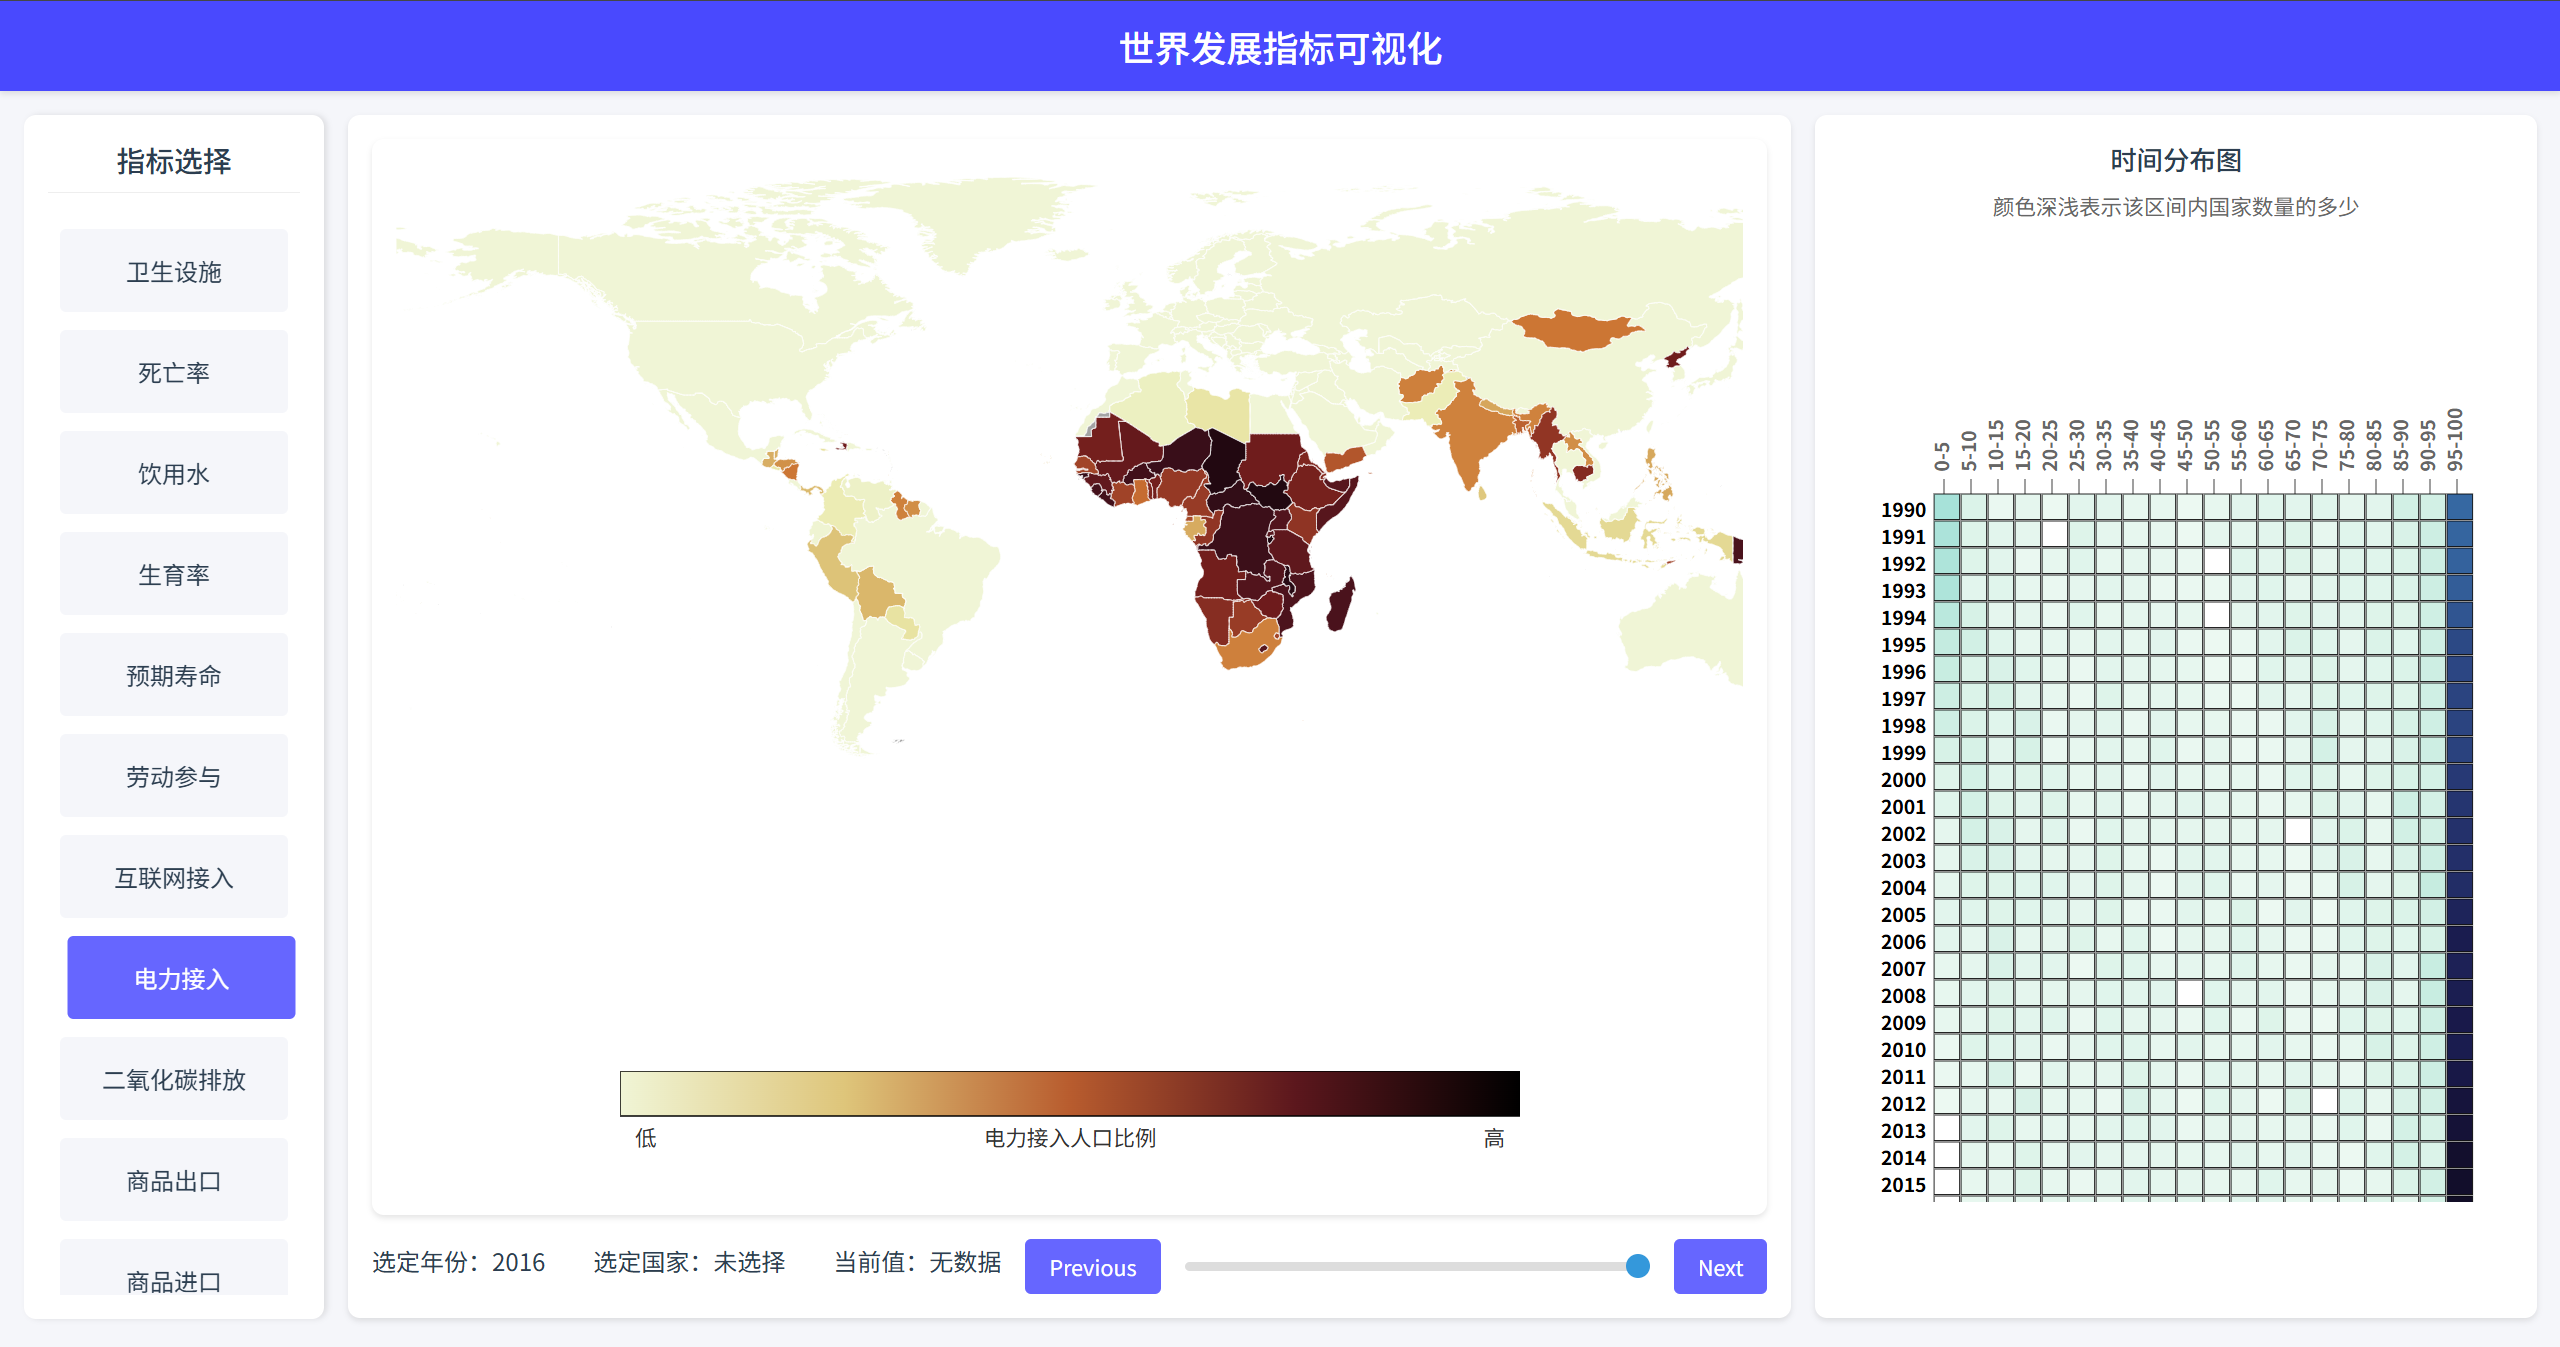
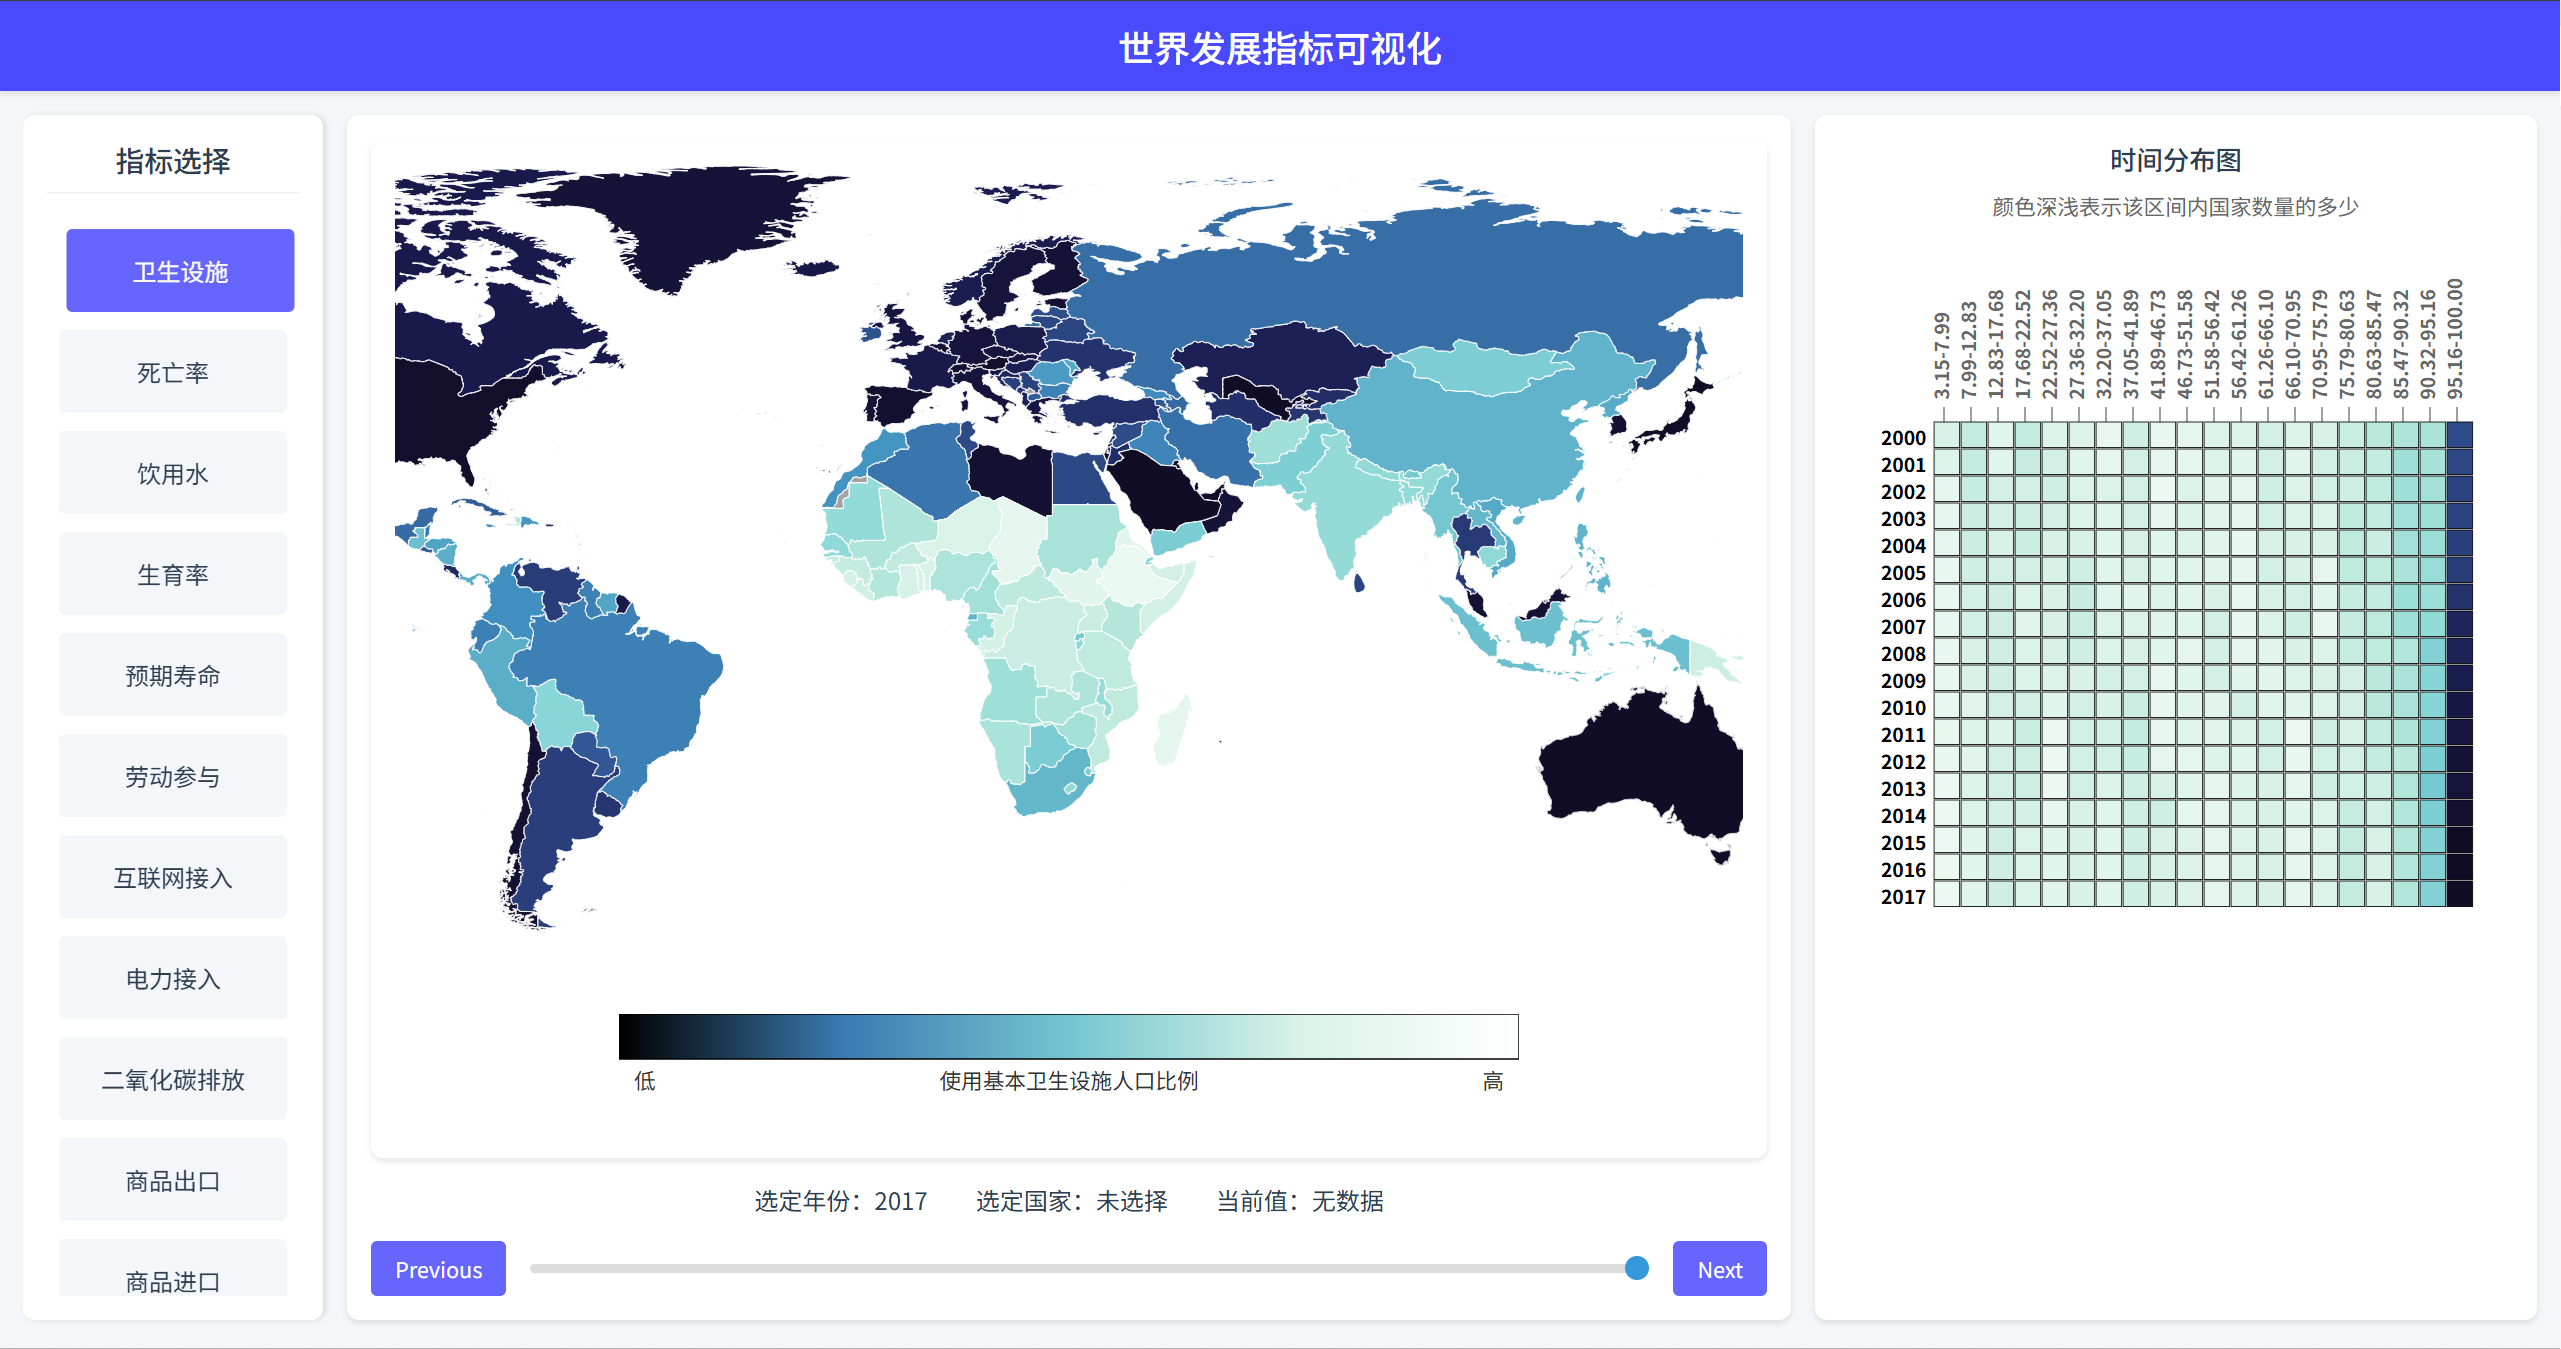
update

diff --git a/src/components/map-component.js b/src/components/map-component.js
@@ -131,10 +131,10 @@ class MapComponent extends React.Component {
                   {/*<stop offset="75%" style={{stopColor: '#5c171d', stopOpacity: 1}}/>*/}
                   {/*<stop offset="100%" style={{stopColor: '#000000', stopOpacity: 1}}/>*/}
                   <stop offset="0%" style={{stopColor: '#000000', stopOpacity: 1}}/>
-                  <stop offset="25%" style={{stopColor: '#5c171d', stopOpacity: 1}}/>
-                  <stop offset="50%" style={{stopColor: '#b85c2e', stopOpacity: 1}}/>
-                  <stop offset="75%" style={{stopColor: '#dec57a', stopOpacity: 1}}/>
-                  <stop offset="100%" style={{stopColor: '#f0f5d6', stopOpacity: 1}}/>
+                  <stop offset="25%" style={{stopColor: '#3b7bb1', stopOpacity: 1}}/>
+                  <stop offset="50%" style={{stopColor: '#73c6d0', stopOpacity: 1}}/>
+                  <stop offset="75%" style={{stopColor: '#d7f2e7', stopOpacity: 1}}/>
+                  <stop offset="100%" style={{stopColor: '#ffffff', stopOpacity: 1}}/>
                 </linearGradient>
               </defs>
               <rect

diff --git a/src/components/utils.js b/src/components/utils.js
@@ -55,9 +55,12 @@ export function getDataName(countryName) {
 }
 
 export function buildColormapValue(min, max) {
-  const lum = scaleLinear().domain([min, max]).range([0, 0.9]);
-  const hue = scaleLinear().domain([min, max]).range([-30, 70]);
-  const sat = 0.6;
+  // const lum = scaleLinear().domain([min, max]).range([0, 0.9]);
+  // const hue = scaleLinear().domain([min, max]).range([-30, 70]);
+  // const sat = 0.6;
+  const lum = scaleLinear().domain([max, min]).range([0.1, 0.95]);
+  const hue = scaleLinear().domain([min, max]).range([150, 250]);
+  const sat = 0.5;
   return (d) => {
     return hsl(hue(d), sat, lum(d));
   };

diff --git a/main.css b/main.css
@@ -265,8 +265,9 @@ html, body {
 }
 
 .country:hover {
-    stroke-width: 1.5;
+    stroke-width: 0.5;
     stroke: var(--accent-color);
+    stroke: black;
 }
 
 /* 响应式设计 */
@@ -315,7 +316,7 @@ html, body {
 }
 
 .grid {
-    margin-top: 1rem;
+    margin-top: -2rem;
 }
 
 .label-distribution {
